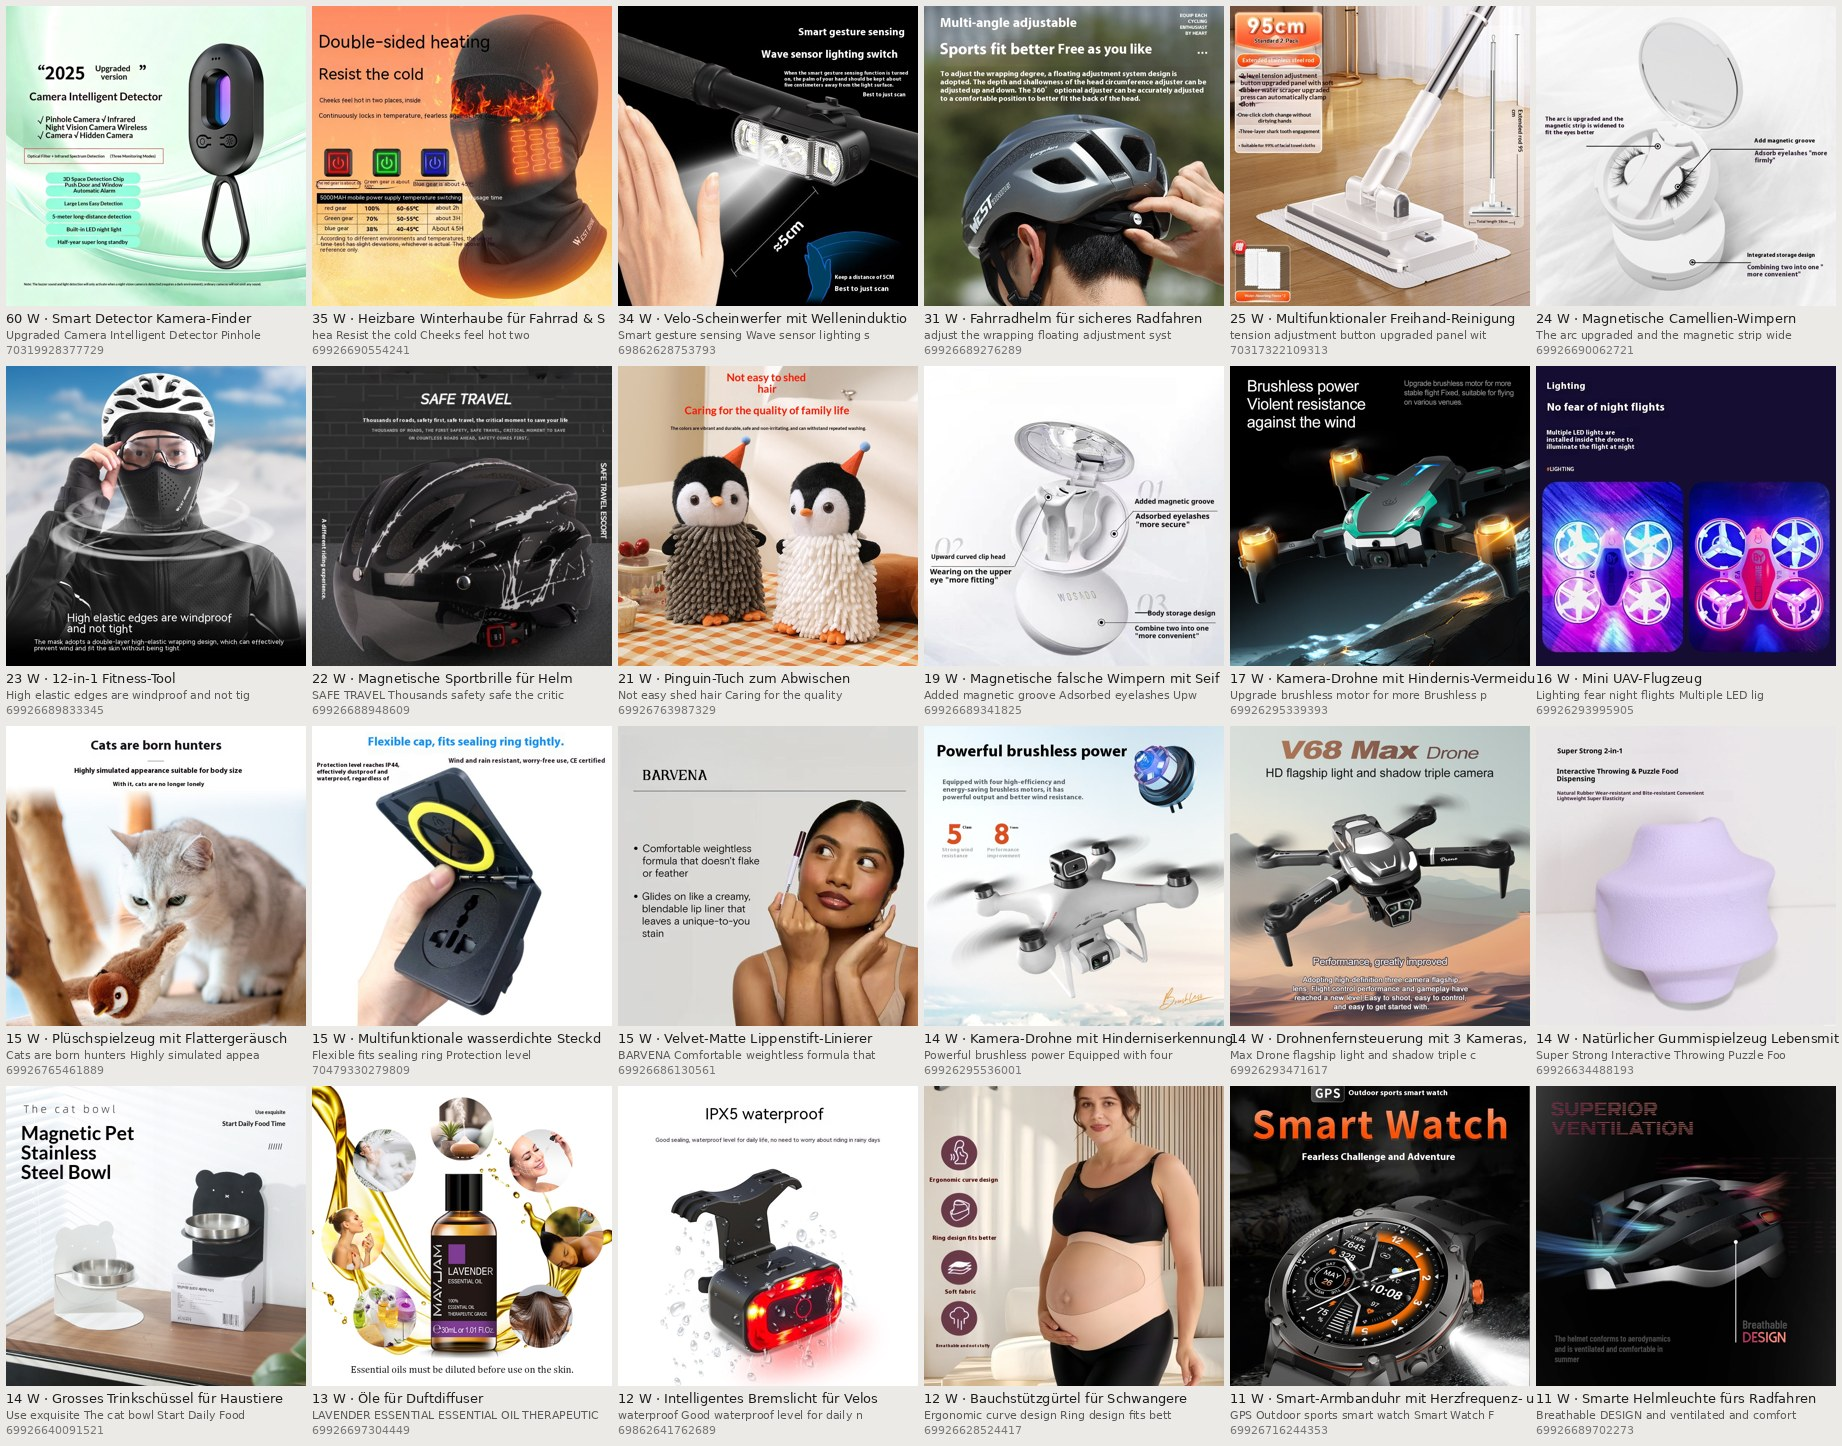
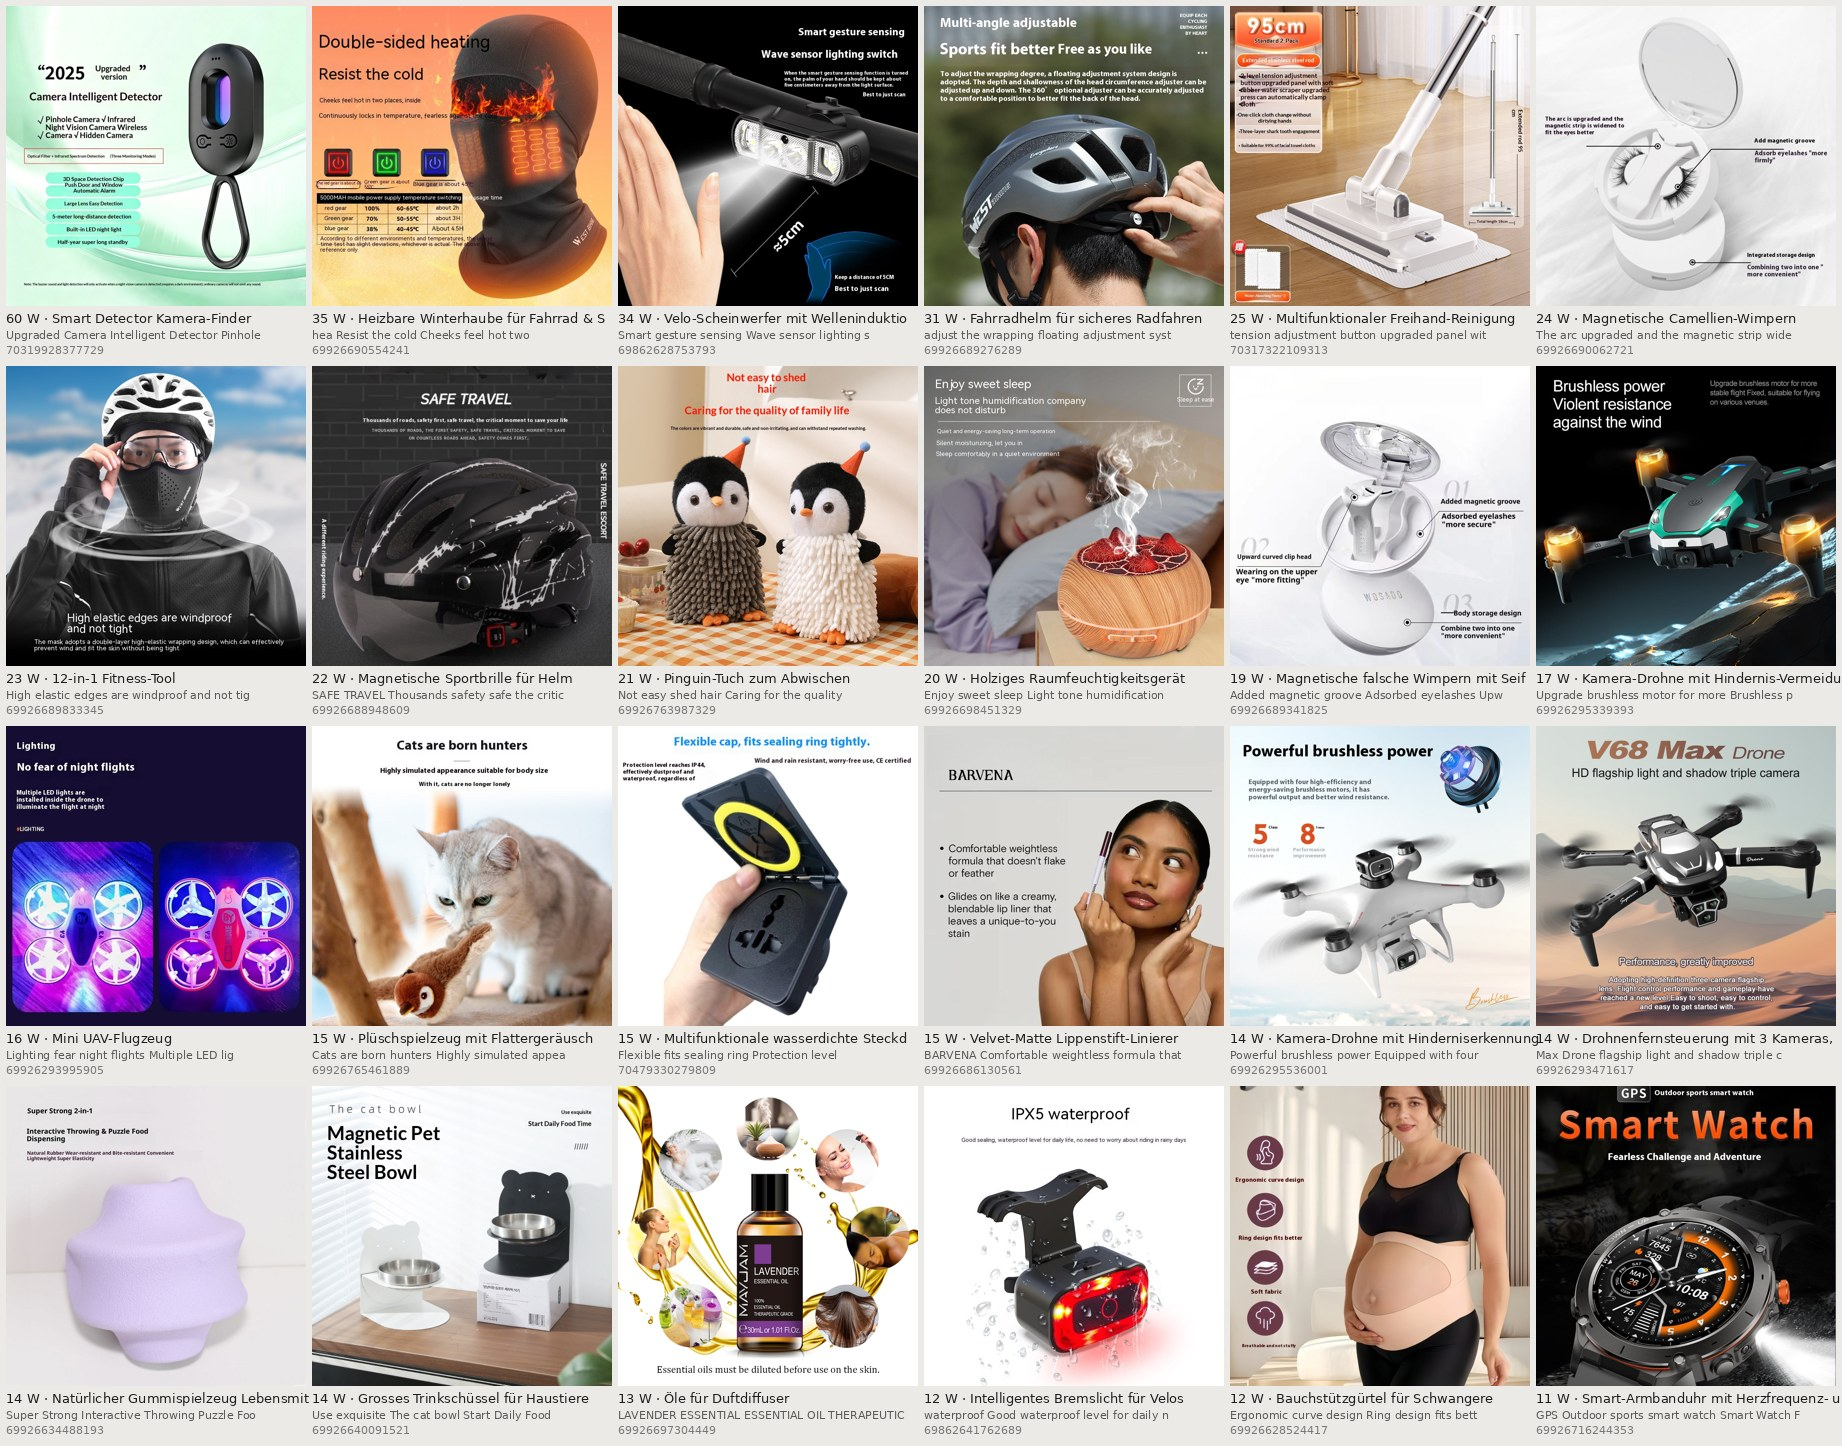
CJ-Ledger [skip ci]
Claude-Session: https://claude.ai/code/session_01MCYpvsTg9cwVa1SwQZ39f3

diff --git a/dropship/BILD-WERBETEXT.md b/dropship/BILD-WERBETEXT.md
@@ -1,9 +1,9 @@
-# Bild-Werbetext in Nicht-Hauptbildern — Stand 2026-09-24T00:04:18Z
+# Bild-Werbetext in Nicht-Hauptbildern — Stand 2026-09-24T00:07:03Z
 
 Quelle: «+N»-Produkte aus `dropship/_cj_bild_backfill.txt` (704 Produkte). Geprüft werden nur Bilder ab Position 2, nie das Hauptbild. Messgerät `bildtext_pruefen.woerter()`, Schwelle ≥ 4 sichere Wörter (Tesseract, Konfidenz ≥ 60, mind. 3 Buchstaben).
 
-- Medien geprüft: **1611** in 457 Produkten
-- Treffer (≥ 4 Wörter): **70** in 66 Produkten
+- Medien geprüft: **1706** in 482 Produkten
+- Treffer (≥ 4 Wörter): **72** in 68 Produkten
 - nicht lesbar (−1, wird beim nächsten Lauf erneut versucht): 0
 - entfernt (`_bild_werbetext_entfernt.txt`): **1**
 
@@ -20,6 +20,7 @@ Quelle: «+N»-Produkte aus `dropship/_cj_bild_backfill.txt` (704 Produkte). Gep
 | 12-in-1 Fitness-Tool `15453769597313` | [69926689833345](https://cdn.shopify.com/s/files/1/0943/6856/3585/files/8a845c7d-c22a-4e42-8948-cc7028021594.jpg) | 23 | High elastic edges are windproof and not tight | offen |
 | Magnetische Sportbrille für Helm `15453768810881` | [69926688948609](https://cdn.shopify.com/s/files/1/0943/6856/3585/files/94d8c59c-9774-43ab-b99c-f851e81e0a74.jpg) | 22 | SAFE TRAVEL Thousands safety safe the critical moment | offen |
 | Pinguin-Tuch zum Abwischen `15453791093121` | [69926763987329](https://cdn.shopify.com/s/files/1/0943/6856/3585/files/2591efa5-f7fd-4ddc-a6e2-fb67637ca6b7_trans.jpg) | 21 | Not easy shed hair Caring for the quality | offen |
+| Holziges Raumfeuchtigkeitsgerät `15453772153217` | [69926698451329](https://cdn.shopify.com/s/files/1/0943/6856/3585/files/92451689-d71f-4c27-be0d-757de9de3bc5_trans.jpg) | 20 | Enjoy sweet sleep Light tone humidification company does | offen |
 | Magnetische falsche Wimpern mit Seifenhalter `15453769138561` | [69926689341825](https://cdn.shopify.com/s/files/1/0943/6856/3585/files/139c7f2f-5dd6-4bde-8996-51550972abd7_fine.jpg) | 19 | Added magnetic groove Adsorbed eyelashes Upward curved clip | offen |
 | Kamera-Drohne mit Hindernis-Vermeidung `15453744562561` | [69926295339393](https://cdn.shopify.com/s/files/1/0943/6856/3585/files/20c126ef-1fd7-47ba-87da-dfe5ce978467.jpg) | 17 | Upgrade brushless motor for more Brushless power stable | offen |
 | Mini UAV-Flugzeug `15453743907201` | [69926293995905](https://cdn.shopify.com/s/files/1/0943/6856/3585/files/7cbd0b1a-7a56-4fc8-b874-60c3d63e3060_fine.jpg) | 16 | Lighting fear night flights Multiple LED lights are | offen |
@@ -71,6 +72,7 @@ Quelle: «+N»-Produkte aus `dropship/_cj_bild_backfill.txt` (704 Produkte). Gep
 | TPE-Falt-Yogamatte, verstärkt und rutschfest `15453762978177` | [70519184818561](https://cdn.shopify.com/s/files/1/0943/6856/3585/files/528b170d-092d-47b3-8099-2b6a5ccd8826_trans_6c0240cc-d11e-466b-8558-4cce46170c2b.jpg) | 5 | Foldable yoga mat available complete | offen |
 | Intelligentes Katzen Spielgerät `15453763568001` | [69926634553729](https://cdn.shopify.com/s/files/1/0943/6856/3585/files/1baa639f-bcce-4c7d-b212-3af84f3cc456_trans.jpg) | 5 | Stimulate hunting instinct random teasing | offen |
 | Bissfeste Elektro-Jump-Ball für Katzen & Hunde `15453763600769` | [69926634586497](https://cdn.shopify.com/s/files/1/0943/6856/3585/files/8f18ab6f-9391-4eea-95bb-31d929e1fa27_trans.jpg) | 5 | Agile without rules Directional scrolling | offen |
+| Katzen-Spielzeug mit Futter-Feeder `15453772480897` | [70519928619393](https://cdn.shopify.com/s/files/1/0943/6856/3585/files/706a908f-a6f9-4761-bb6e-19107db87d57_trans.jpg) | 5 | PET TOY Open the Cover | offen |
 | Intelligente Drohne mit Dual-Kamera `15453743579521` | [69926293143937](https://cdn.shopify.com/s/files/1/0943/6856/3585/files/5cc44047-9a24-4841-86e2-5b3cbe033c66_trans.jpg) | 4 | Pro Max camera drone | offen |
 | Sparkling Augen-Schatten `15453767827841` | [69926687244673](https://cdn.shopify.com/s/files/1/0943/6856/3585/files/46acf1d0-7f47-4253-9504-5389146d893f.jpg) | 4 | Rose Gold Eye Shadow | offen |
 | Männer Arbeitsschuhe, robust & isoliert `15453775266177` | [69926703202689](https://cdn.shopify.com/s/files/1/0943/6856/3585/files/1b7186a8-0b50-4337-b8a7-1890840a6613_trans.jpg) | 4 | Suede leather breathable protection | offen |

diff --git a/dropship/KOLLEKTION-DOPPEL.md b/dropship/KOLLEKTION-DOPPEL.md
@@ -1,6 +1,6 @@
-# Kollektionen mit gleicher Regel — Stand 2026-09-23T23:56:15Z
+# Kollektionen mit gleicher Regel — Stand 2026-09-24T00:08:34Z
 
-OFFEN: 0 · erledigt heute: 0 · übersprungen (Zahlen ungleich): 0 · Gruppen: 0 · DRY
+OFFEN: 0 · erledigt heute: 0 · übersprungen (Zahlen ungleich): 0 · Gruppen: 0 · SCHARF
 
 Regel: eine Bleiberin je Gruppe (Menü > Startseite > Rotation > Kanäle > Text), die anderen abgemeldet + 301. Ledger `dropship/_kollektion_doppel.txt`. Rückweg: Redirect löschen + publizieren.
 

diff --git a/dropship/BILD-QUEUE-CAPTIONS.md b/dropship/BILD-QUEUE-CAPTIONS.md
@@ -1,4 +1,4 @@
-# Bild-Queue-Captions — ehrliche Laden-Sprache · Stand 2026-09-24 00:05 UTC
+# Bild-Queue-Captions — ehrliche Laden-Sprache · Stand 2026-09-24 00:08 UTC
 
 Werkzeug `automation/bild_queue_captions_ehrlich.py` (täglich im Aufseher). ready: 0 · heute umgebaut: 0
 

diff --git a/dropship/KATEGORIE-WACHE.md b/dropship/KATEGORIE-WACHE.md
@@ -1,4 +1,4 @@
-# Produktkategorie (Taxonomie) — Stand 2026-09-24T00:00Z
+# Produktkategorie (Taxonomie) — Stand 2026-09-24T00:08Z
 
 Aktive gescannt: 648 · ohne Kategorie: 648 · heute gesetzt: 0 (SCHARF, CAP 45000) · danach offen: 648 · Fehler: 0
 
